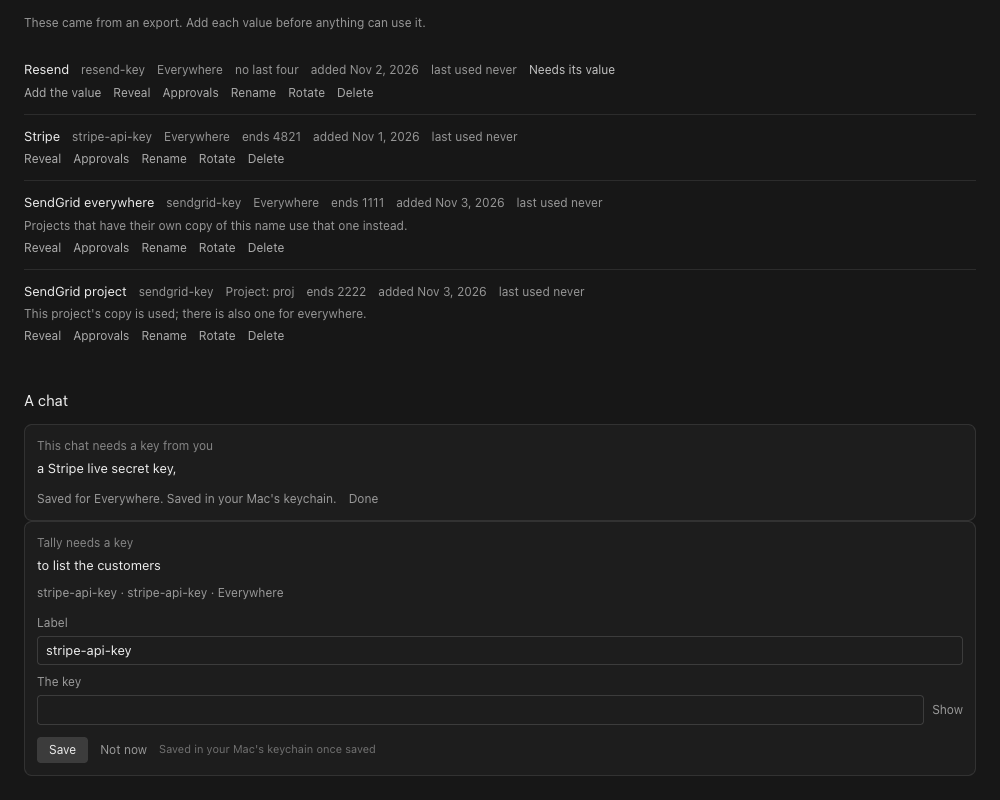
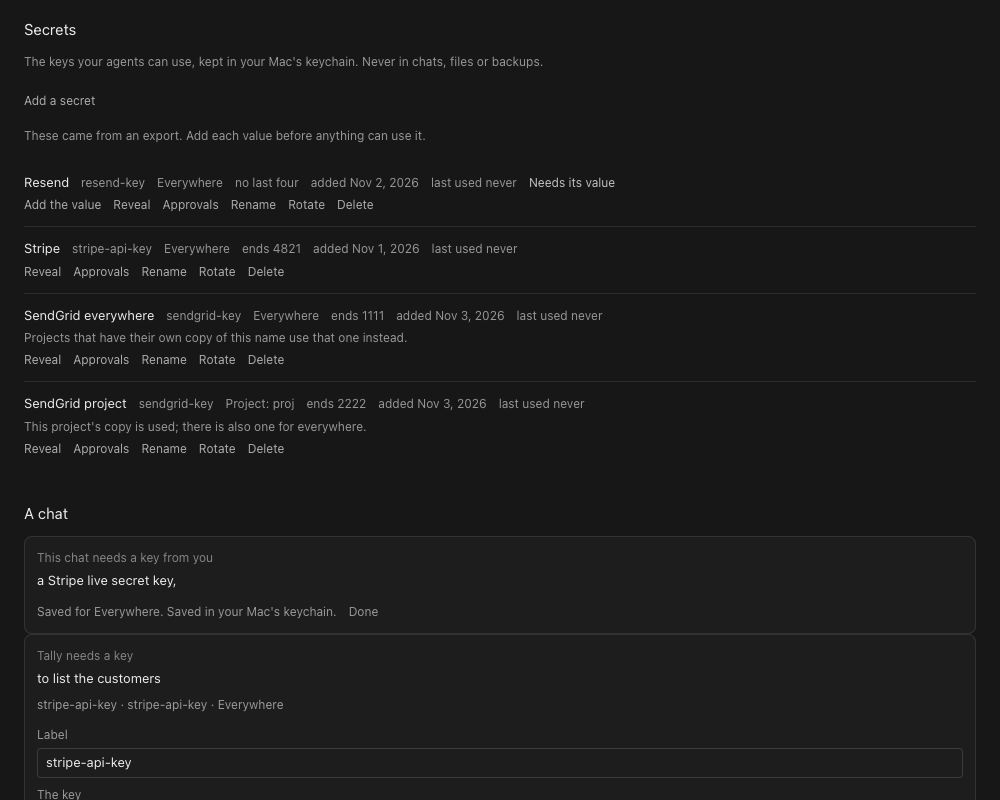
Stop promising an Always answer for a secret
A secret card is Once or No. The Settings switch that offered Always is
gone, and the secrets_run tool no longer says a run can be approved once
for always. The exported warning strings stay, so existing imports still
compile, but they no longer say always.

diff --git a/src/features/secrets/ui/SecretsPage.tsx b/src/features/secrets/ui/SecretsPage.tsx
@@ -8,12 +8,9 @@ import { listen } from "@tauri-apps/api/event";
 import { isDevCopy } from "../../../app/model/appIdentity";
 
 import {
-  ANY_CODE_LABEL,
-  ANY_CODE_WARNING,
   dayOf,
   deleteSecret,
   envFilesFor,
-  getAlwaysForAnyCode,
   grantsFor,
   grantLabel,
   copyNotes,
@@ -27,7 +24,6 @@ import {
   saveNew,
   scopeLabel,
   SHARED_FILE_NOTE,
-  setAlwaysForAnyCode,
   slugIsValid,
   slugOf,
   writeEnv,
@@ -113,8 +109,6 @@ export function SecretsPage({ project }: { project?: string }) {
           {error}
         </p>
       ) : null}
-
-      <AnyCodeSetting onChanged={load} />
 
       <AddSecret
         project={project}
@@ -237,50 +231,6 @@ export function SecretsPage({ project }: { project?: string }) {
           );
         })}
       </ul>
-    </div>
-  );
-}
-
-/** One value per install, off by default: whether an agent's program that can run any code may be approved "Always". */
-function AnyCodeSetting({ onChanged }: { onChanged: () => void }) {
-  const [on, setOn] = useState(false);
-  const [error, setError] = useState<string | null>(null);
-  useEffect(() => {
-    let live = true;
-    getAlwaysForAnyCode()
-      .then((value) => live && setOn(value === true))
-      .catch(() => live && setOn(false));
-    return () => {
-      live = false;
-    };
-  }, []);
-  return (
-    <div className="rounded border border-content/10 p-3">
-      <label className="flex items-start gap-2 text-[13px] text-content" htmlFor="secret-any-code">
-        <input
-          id="secret-any-code"
-          type="checkbox"
-          checked={on}
-          onChange={async (event) => {
-            const next = event.target.checked;
-            setError(null);
-            try {
-              const saved = await setAlwaysForAnyCode(next);
-              setOn(saved.on);
-              if (!next && saved.removedGrants > 0) onChanged();
-            } catch {
-              setError("That setting wasn't changed. Try again.");
-            }
-          }}
-        />
-        <span>{ANY_CODE_LABEL}</span>
-      </label>
-      <p className={`mt-1 ${PLAIN}`}>{ANY_CODE_WARNING}</p>
-      {error ? (
-        <p role="alert" className="mt-1 text-[12px] text-red-400">
-          {error}
-        </p>
-      ) : null}
     </div>
   );
 }

diff --git a/tests/browser/wp92-secrets.spec.ts b/tests/browser/wp92-secrets.spec.ts
@@ -67,27 +67,13 @@ test("the Secrets page lists a key with its last four, reveals on a tap, renames
   await expect(page.getByText("resend-key", { exact: true })).toHaveCount(0);
 });
 
-test("'Always' for programs that can run any code is off until the person turns it on, with its warning beside it", async ({
-  page,
-}) => {
+test("there is no switch that promises an Always answer for programs that can run any code", async ({ page }) => {
   await page.goto("/tests/browser/wp92-secrets.html");
-  const toggle = page.getByRole("checkbox", {
-    name: "Let me choose 'Always' for programs that can run any code",
-  });
-  await expect(toggle).toBeVisible();
-  await expect(toggle).not.toBeChecked();
+  await expect(page.getByRole("checkbox", { name: /always/i })).toHaveCount(0);
+  await expect(page.getByText("Let me choose 'Always' for programs that can run any code")).toHaveCount(0);
   await expect(
     page.getByText("'Always' lets an agent use this key for anything, without asking you. Leave this off unless you are sure."),
-  ).toBeVisible();
-  // The page asked the app, and nothing was changed by looking.
-  expect(await page.evaluate(() => (window as unknown as { __fixture: { setCalls: boolean[] } }).__fixture.setCalls)).toEqual([]);
-
-  await toggle.check();
-  await expect(toggle).toBeChecked();
-  expect(await page.evaluate(() => (window as unknown as { __fixture: { setCalls: boolean[] } }).__fixture.setCalls)).toEqual([true]);
-  await toggle.uncheck();
-  await expect(toggle).not.toBeChecked();
-  expect(await page.evaluate(() => (window as unknown as { __fixture: { setCalls: boolean[] } }).__fixture.setCalls)).toEqual([true, false]);
+  ).toHaveCount(0);
 });
 
 test("writing a key to a .env that other accounts can read says so", async ({ page }) => {

diff --git a/src/features/secrets/model/secrets.ts b/src/features/secrets/model/secrets.ts
@@ -222,10 +222,10 @@ export function removeEnv(input: {
   return invoke(`${COMMAND}secrets_env_remove`, { input });
 }
 
-/** The label and the warning beside the setting, and the same warning under the "Always" buttons on a card. */
-export const ANY_CODE_LABEL = "Let me choose 'Always' for programs that can run any code";
+/** Words for a program that can run any code. Cards are Once or No, so these do not offer a lasting approval. */
+export const ANY_CODE_LABEL = "Programs that can run any code ask every time";
 export const ANY_CODE_WARNING =
-  "'Always' lets an agent use this key for anything, without asking you. Leave this off unless you are sure.";
+  "A program that can run any code is asked on every run. There is no way to skip that question.";
 
 export type AlwaysSetting = { on: boolean; removedGrants: number };
 

diff --git a/src-tauri/src/mcp_server.rs b/src-tauri/src/mcp_server.rs
@@ -729,7 +729,7 @@ fn secret_tools() -> Vec<Value> {
         json!({
             "name": "secrets_run",
             "title": "Run one command with a key",
-            "description": "Run one command (argv, never a shell line) with one saved key in its environment, then get its exit code, output and whether it timed out. The key is put straight into that child's environment: you and the transcript never see it, and its output is scrubbed first. The person approves the first run (or once for always); a refusal or a missing name comes back as a state you can act on.",
+            "description": "Run one command (argv, never a shell line) with one saved key in its environment, then get its exit code, output and whether it timed out. The key is put straight into that child's environment: you and the transcript never see it, and its output is scrubbed first. The person approves the first run; a refusal or a missing name comes back as a state you can act on.",
             "inputSchema": {
                 "type": "object",
                 "properties": {
